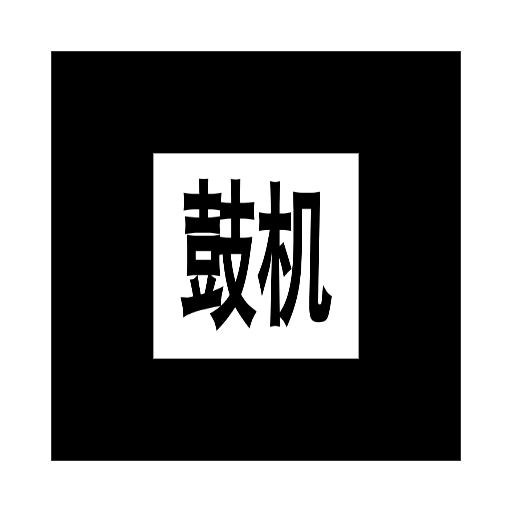
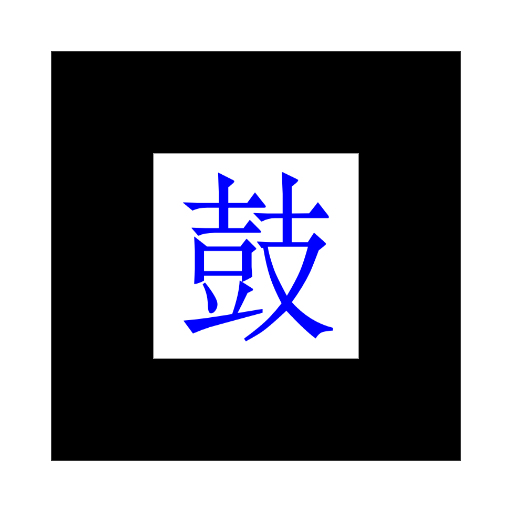
Update drum card pattern

Changed region(s): [[0.3438, 0.3438, 0.6562, 0.6875]]

diff --git a/assets/cards.js b/assets/cards.js
@@ -69,7 +69,7 @@ export const CARD_TARGETS = {
       decodedInstrument: "synthesizer"
     },
     patternMatch: {
-      minConfidence: 0.75
+      minConfidence: 0.80
     },
     glyphSignature: {
       minConfidence: 0.68,
@@ -145,7 +145,7 @@ export const CARD_TARGETS = {
       decodedInstrument: "drum-machine"
     },
     patternMatch: {
-      minConfidence: 0.75
+      minConfidence: 0.80
     },
     glyphSignature: {
       minConfidence: 0.68,

diff --git a/assets/runtime.js b/assets/runtime.js
@@ -1,8 +1,8 @@
 import * as THREE from "./three.js";
-import { getAllCardTargets, getCardTarget, markerResourceMap } from "./cards.js?v=20260529-patt-binding-v5";
+import { getAllCardTargets, getCardTarget, markerResourceMap } from "./cards.js?v=20260529-patt-binding-v6";
 import { createEmptyAnchor } from "./anchor.js";
 import { hasCameraSupport, needsHttps } from "./camera.js";
-import { detectCardPoseFromFrame, trackCardPoseFromFrame } from "./tracker.js?v=20260529-patt-binding-v5";
+import { detectCardPoseFromFrame, trackCardPoseFromFrame } from "./tracker.js?v=20260529-patt-binding-v6";
 
 const $ = (selector) => document.querySelector(selector);
 

diff --git a/assets/app.js b/assets/app.js
@@ -1,1 +1,1 @@
-import "./runtime.js?v=20260529-patt-binding-v5";
+import "./runtime.js?v=20260529-patt-binding-v6";

diff --git a/index.html b/index.html
@@ -43,6 +43,6 @@
     </section>
   </main>
 
-  <script type="module" src="./assets/app.js?v=20260529-patt-binding-v5"></script>
+  <script type="module" src="./assets/app.js?v=20260529-patt-binding-v6"></script>
 </body>
 </html>